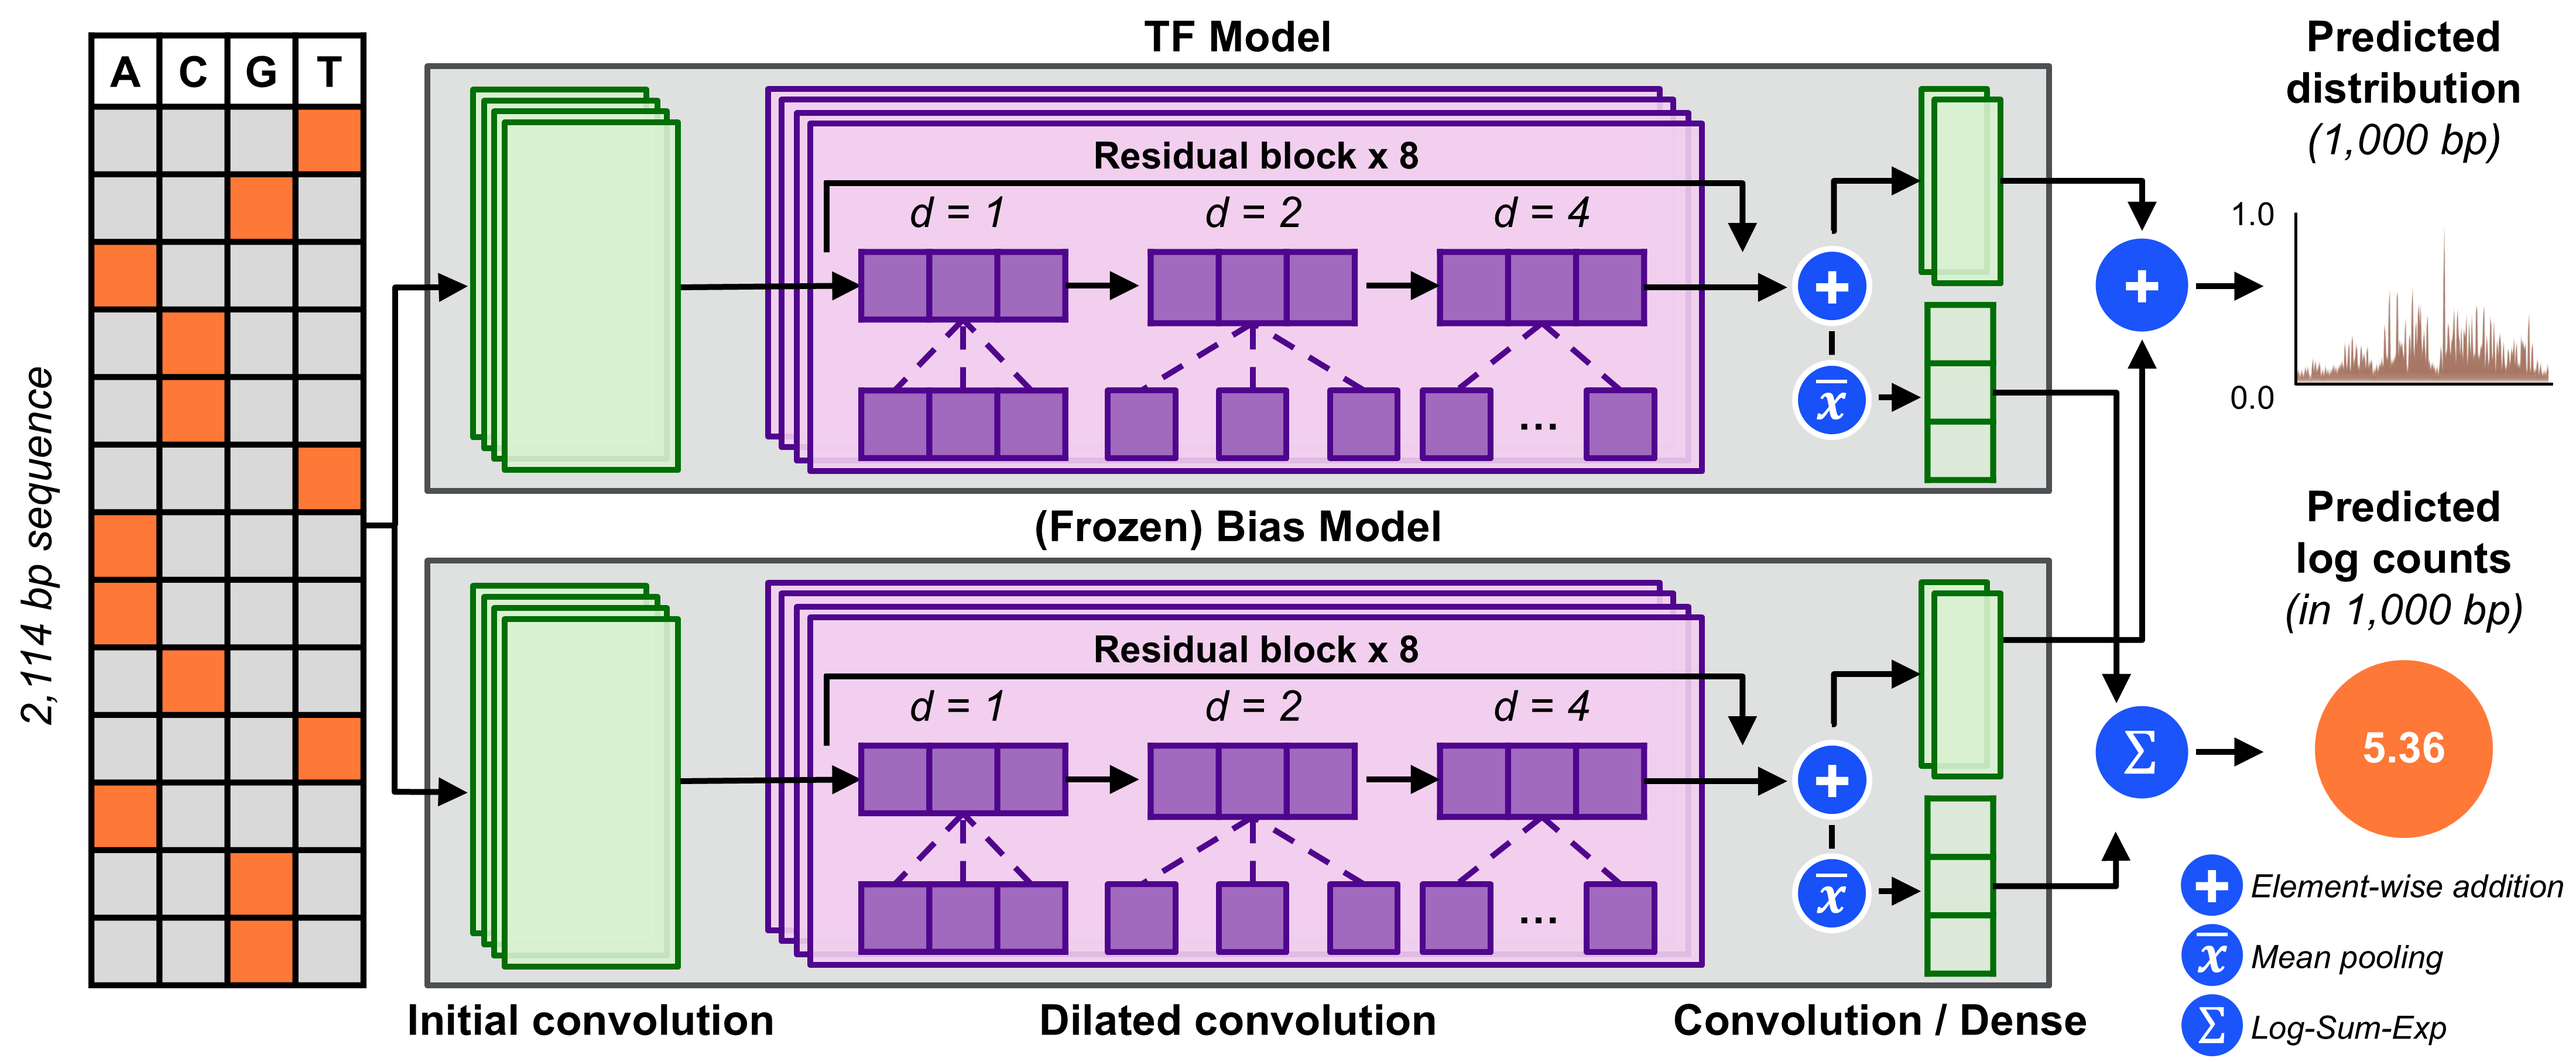
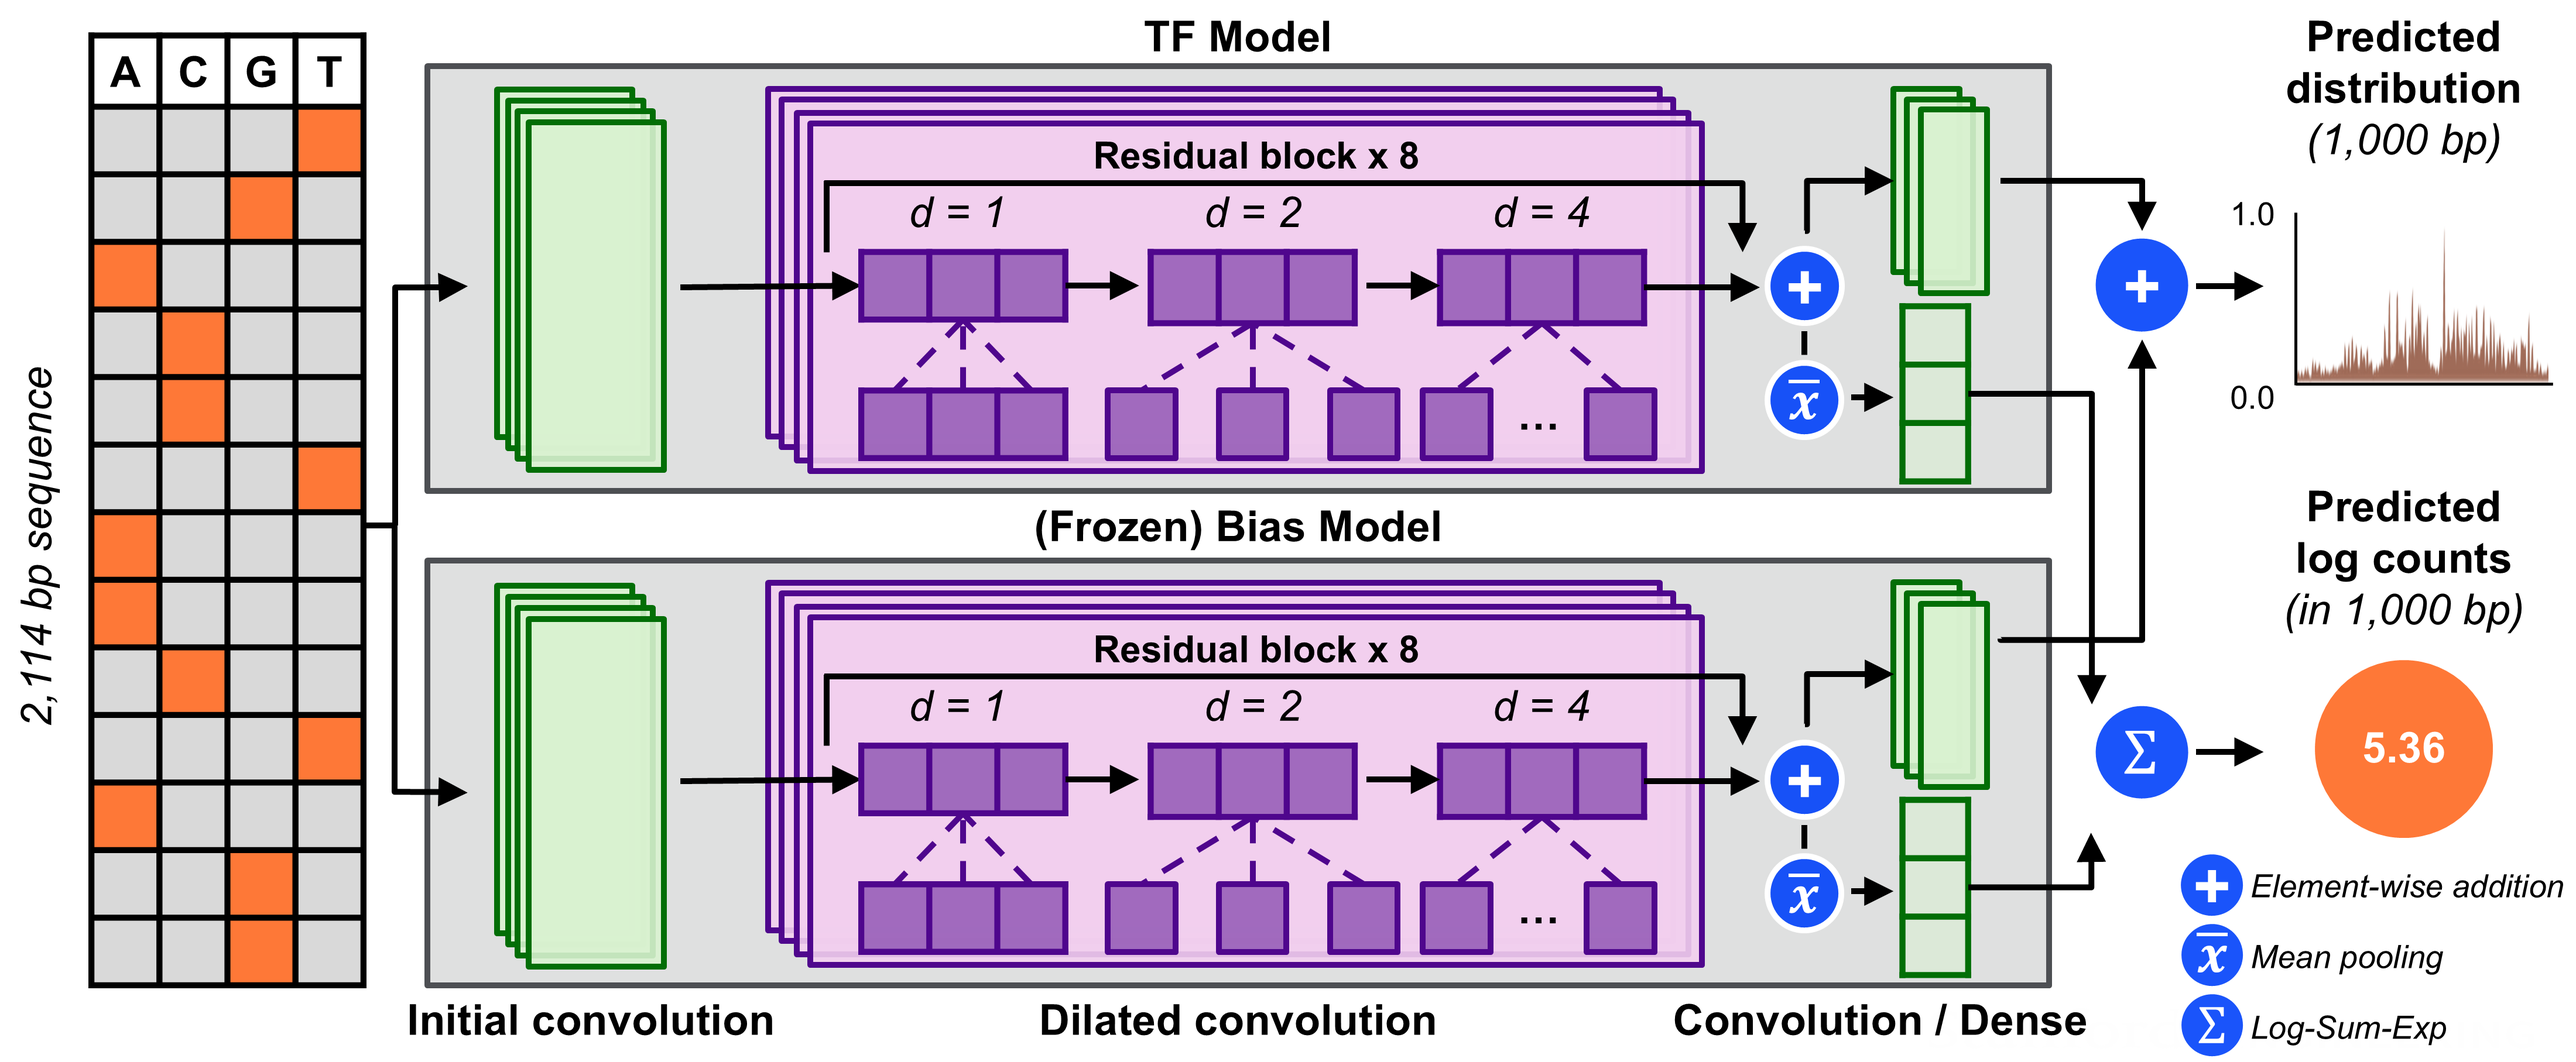
Harmonized randomized seed.

diff --git a/README.md b/README.md
@@ -19,10 +19,10 @@ The bias-free model can then be interpreted to recover cis-regulatory sequence s
 - [Optimizations](#optimizations)
 - [Reproducibility](#reproducibility)
 - [Python API](#python-api)
-- Elsewhere:
-  [engines and environments](envs/README.md),
-  [accessibility signal conventions](chrombpnet/helpers/preprocessing/README.md#accessibility-signal-conventions),
-  [testing](tests/README.md)
+- Additional information:
+  - [Engines and environments](envs/README.md),
+  - [Accessibility signal conventions](chrombpnet/helpers/preprocessing/README.md#accessibility-signal-conventions),
+  - [Testing](tests/README.md)
 
 ## Installation
 
@@ -291,8 +291,7 @@ Four options control them, all off by default:
 
 ## Optimizations
 
-Compared with the original TensorFlow ChromBPNet
-([kundajelab/chrombpnet](https://github.com/kundajelab/chrombpnet)):
+### Compared with original ChromBPNet ([kundajelab/chrombpnet](https://github.com/kundajelab/chrombpnet)):
 
 - **Three engines instead of one.** PyTorch (the default), TensorFlow (the
   original Keras implementation, byte-identical to it given the same inputs)
@@ -340,7 +339,7 @@ Triton forward are adapted from the
 
 ## Reproducibility
 
-### Compared with original ChromBPNet
+### Compared with original ChromBPNet ([kundajelab/chrombpnet](https://github.com/kundajelab/chrombpnet)):
 
 | Flag | Effect |
 |---|---|
